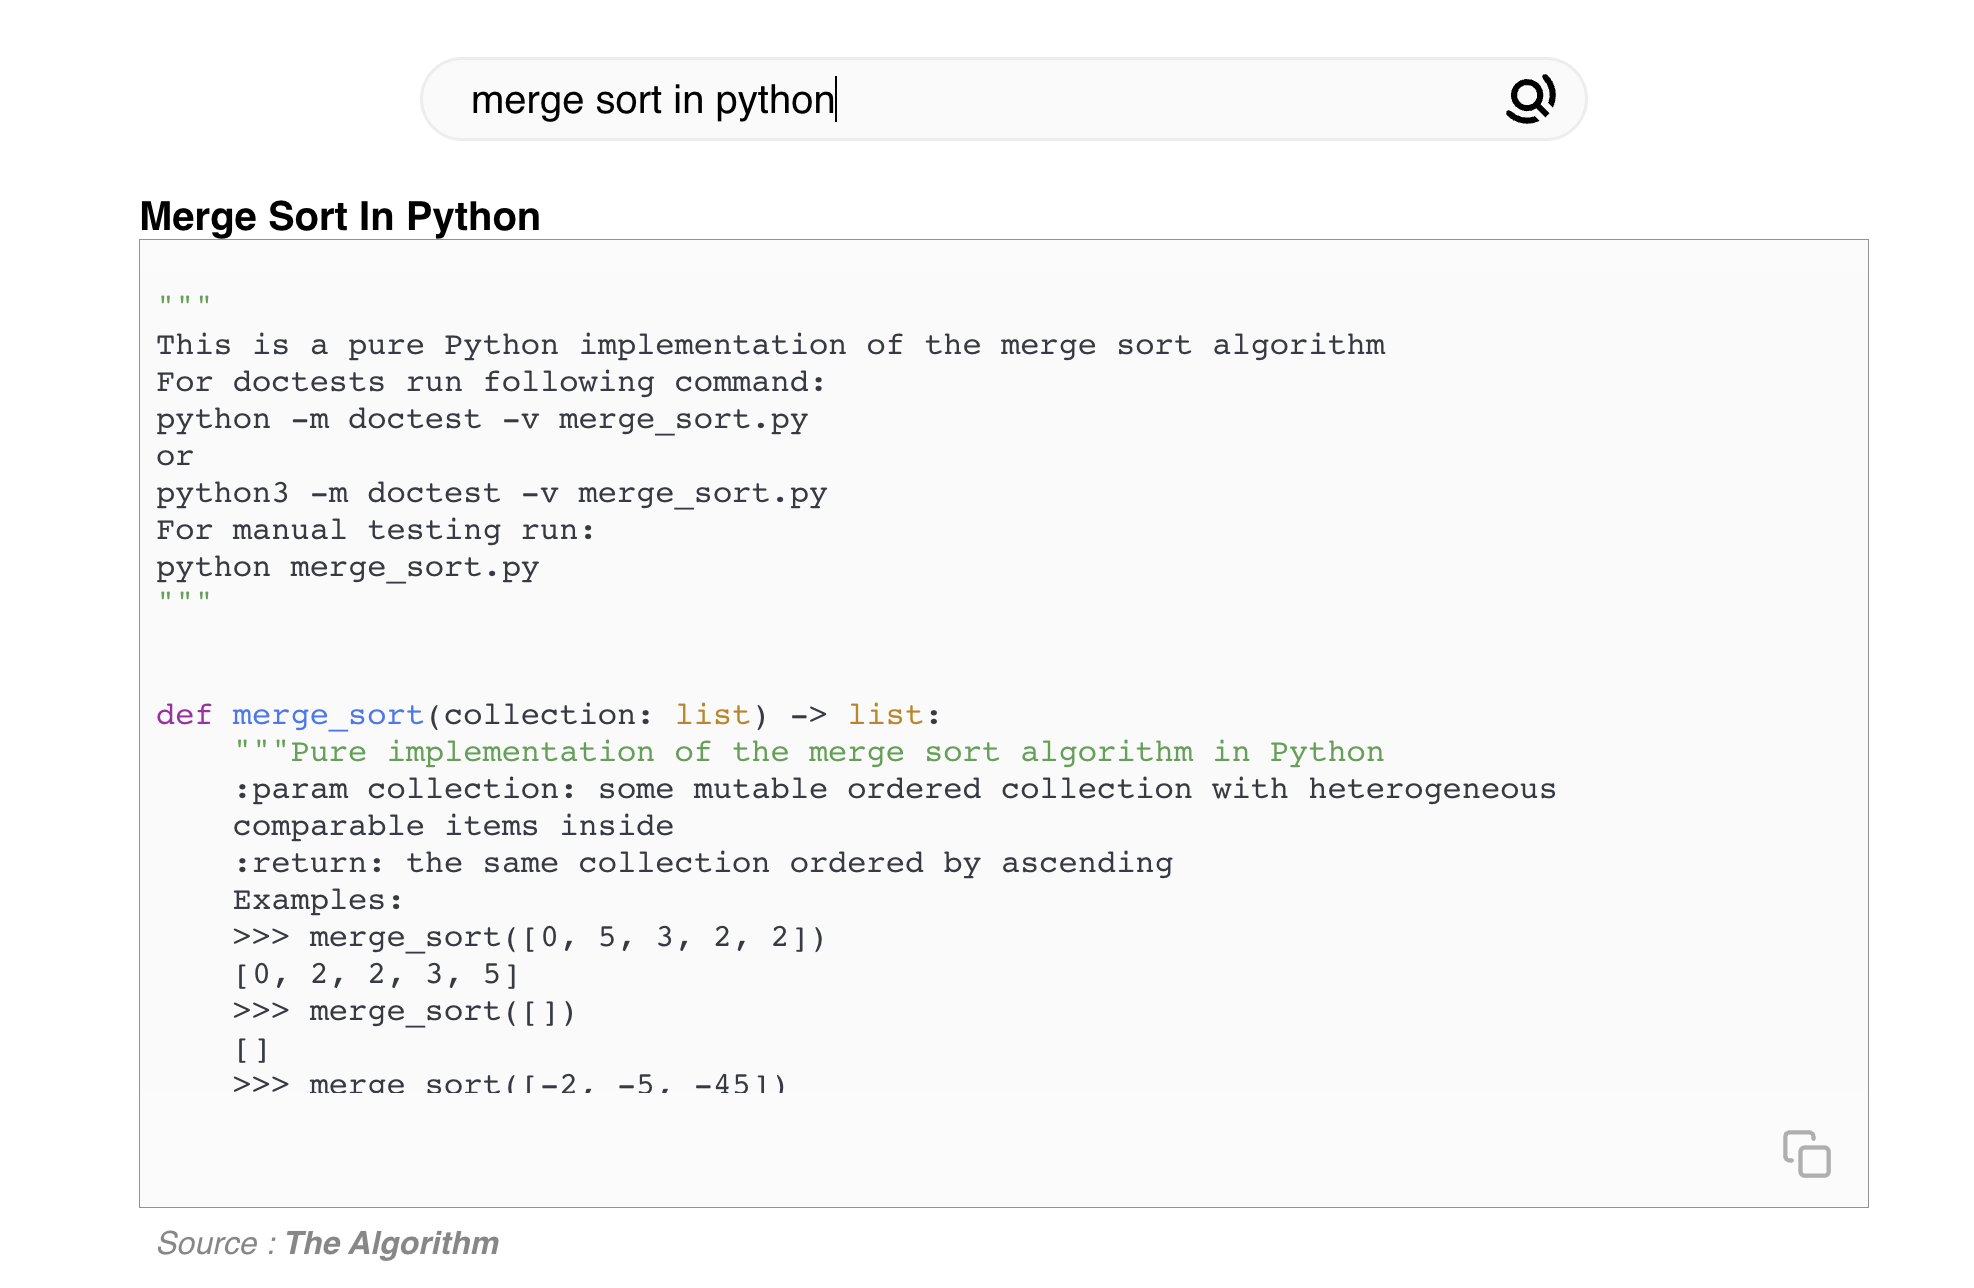
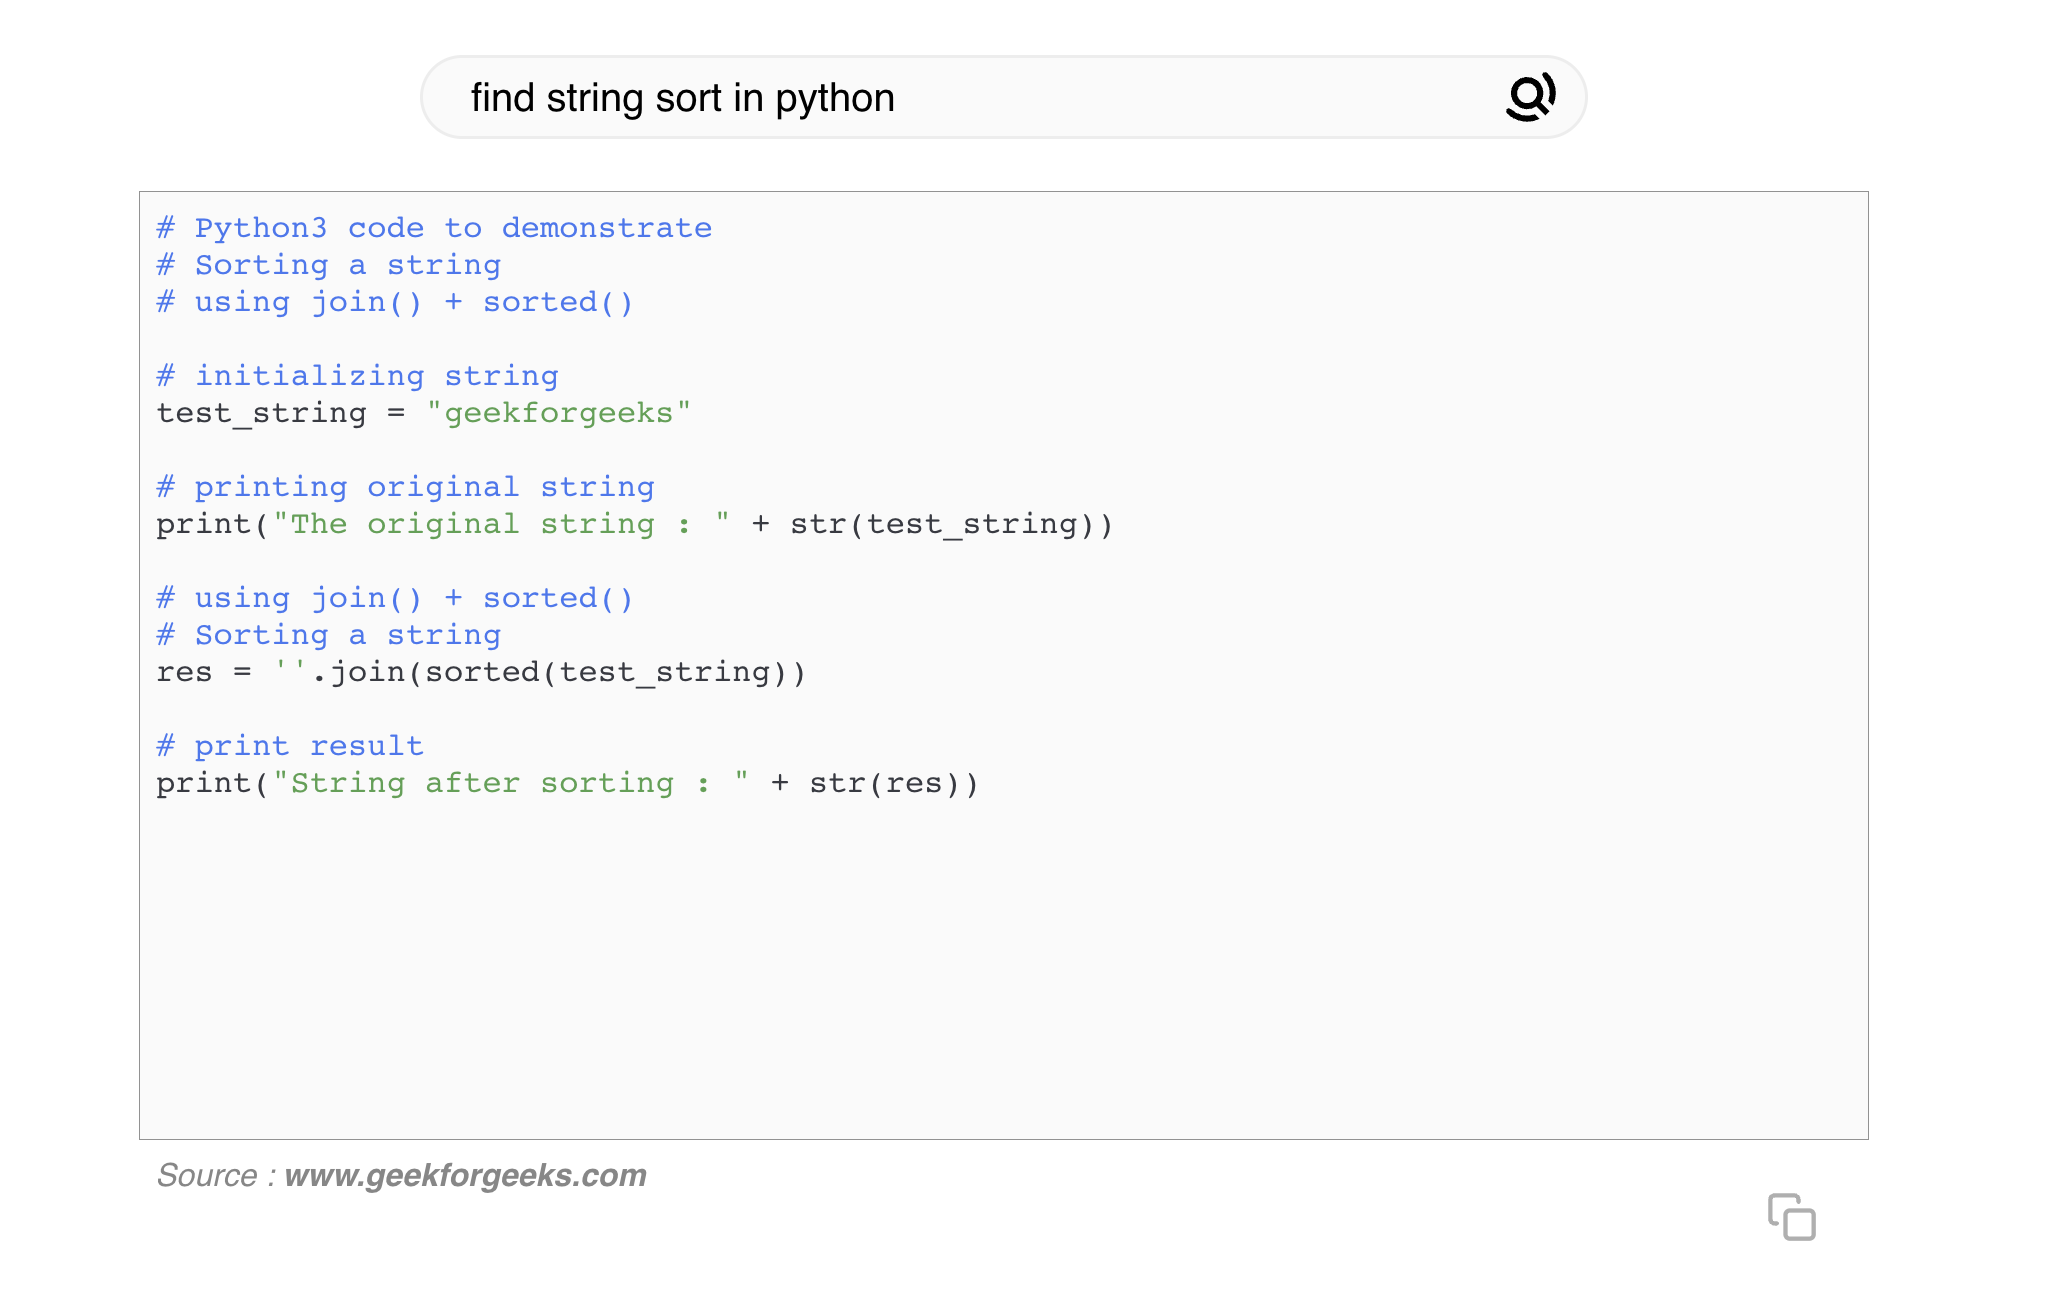
added new crawler

diff --git a/apps/code-reference/src/App.jsx b/apps/code-reference/src/App.jsx
@@ -5,6 +5,7 @@ import axios from "axios";
 import styled from "styled-components";
 import _ from "lodash";
 import * as Icon from "react-feather";
+import { isTriggered } from "@felvin-search/core";
 
 //------------Styled Components-------------
 // If you're unfamiliar with styled components
@@ -16,7 +17,7 @@ const Source = styled.span`
   color: #878787;
 `;
 
-const SourceLink = styled.a`
+const SourceLink = styled.span`
   text-decoration: none;
   color: #878787;
   margin-left: 4px;
@@ -28,6 +29,8 @@ const CodeBlock = styled.div`
   width: clamp(300px, 60vw, 900px);
   overflow-y: auto;
   font-size: 1rem;
+  border: 0.5px #929292 solid;
+  padding: 0;
 `;
 const CodeBlockWrapper = styled.div`
   height: 68vh;
@@ -52,6 +55,11 @@ const Clipboard = styled.button`
   cursor: pointer;
   float: right;
 `;
+const CodeSnippet = styled(SyntaxHighlighter)`
+  height: 100%;
+  margin: 0;
+  padding: 20px;
+`
 
 //=========================================
 
@@ -59,32 +67,35 @@ const Clipboard = styled.button`
 // `data` prop is exactly what is returned by queryToData.
 
 function Component(props) {
-  console.log(props.data);
+  console.log(props);
+
   const [isCopied, setIsCopied] = useState(false);
   const handleCopy = (clip) => {
-    clip.writeText(JSON.parse(props.data.code)).then(() => {
+    clip.writeText(props.data.code).then(() => {
       setIsCopied(true);
       setTimeout(() => {
         setIsCopied(false);
       }, 2000);
     });
   };
+
   return (
     <div>
-      <b>{_.startCase(`${props.data.algorithm} in ${props.data.language}`)}</b>
-      <CodeBlockWrapper>
-        <CodeBlock>
-          <SyntaxHighlighter
-            language={props.data.language}
-            style={atomOneLight}
-            wrapLongLines={true}
-            customStyle={{
-              background: "#FAFAFA",
-            }}
-          >
-            {JSON.parse(props.data.code)}
-          </SyntaxHighlighter>
-        </CodeBlock>
+      <CodeBlock>
+        <CodeSnippet
+          language={props.data.lan}
+          style={atomOneLight}
+          wrapLongLines={true}
+
+        >
+          {props.data.code}
+        </CodeSnippet>
+      </CodeBlock>
+      <Container>
+        <Source>
+          Source :
+          <SourceLink >www.geekforgeeks.com</SourceLink>
+        </Source>
         <Clipboard onClick={() => handleCopy(navigator.clipboard)}>
           {!isCopied ? (
             <Icon.Copy size={26} color="#AFAFAF" />
@@ -92,12 +103,6 @@ function Component(props) {
             <Icon.Check size={26} color="#AFAFAF" />
           )}
         </Clipboard>
-      </CodeBlockWrapper>
-      <Container>
-        <Source>
-          Source :
-          <SourceLink href={props.data.source}>{props.data.name}</SourceLink>
-        </Source>
       </Container>
     </div>
   );
@@ -107,26 +112,41 @@ function Component(props) {
 
 // This where you can process the query and try to convert it into some meaningful data.
 const queryToData = async ({ query }) => {
-  //  Query would have two different parts
-  //  -> Algorithm - may be multi word
-  //  -> Language - Mostly Single Word
-  const languageMap = {
-    js: "javascript",
-    cpp: "c++",
-  };
-  query = query.toLowerCase();
-  Object.keys(languageMap).forEach((shortForm) => {
-    query = query.replace(shortForm, languageMap[shortForm]);
-  });
-  const searchQuery = query;
-  const value = await axios.get(
-    "https://code-snippets.fly.dev/api/code",
-    { params: { searchQuery } }
-  );
-  if (value.status == 200) {
-    return value.data;
+  if (
+    !isTriggered(
+      query,
+      [
+        "find",
+        "how",
+      ],
+      { substringMatch: true }
+    )
+  ) {
+    return;
   }
-  return;
+  const lan = ['javascript', 'c++', 'c', 'python'];
+  query = query.toLowerCase();
+  let lanFound = lan.map((item) => {
+    if (query.includes(item)) {
+      return item
+    }
+  })
+  lanFound = lanFound.filter(function (element) {
+    return element !== undefined;
+  });
+  const res = await axios.get(`https://felvin-code-snippets.herokuapp.com/?q=${query}`)
+  let code = res.data.filter((ele) => ele.lan.toLowerCase().includes(lanFound[0]))
+  if(code.length===0){
+    code =res.data;
+  }
+  if (res.status === 200) {
+    return code[0];
+  }
+  else {
+    return;
+  }
+
+
 };
 
 export { queryToData, Component };

diff --git a/apps/code-reference/src/index.ts b/apps/code-reference/src/index.ts
@@ -9,9 +9,8 @@ const App: InstantApp = {
   Component,
   screenshotPath: "./files/screenshot.png",
   exampleSearchQueries: [
-    "merge sort in javascript",
-    "word wrap in c",
-    "bubble sort in python",
+    "find <some query>",
+    "how <some query>"
   ],
 };
 
